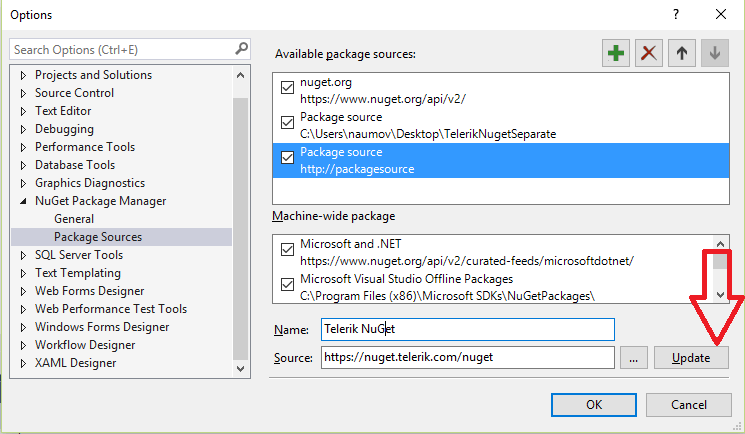
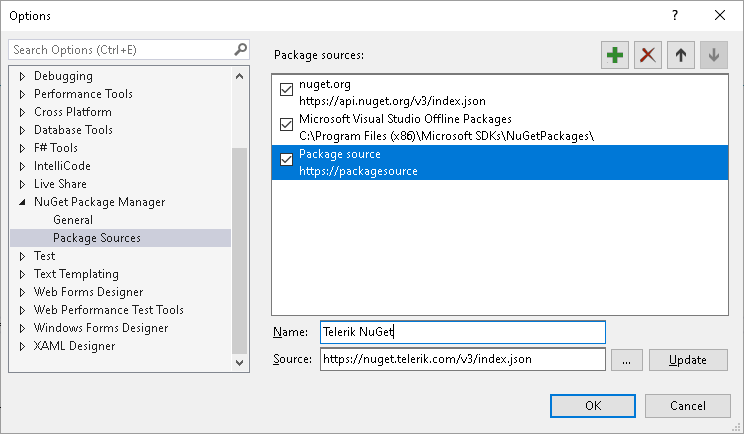
Added infor about the nuget v3 server

diff --git a/getting-started/installation/installation-installing-from-nuget-wpf.md b/getting-started/installation/installation-installing-from-nuget-wpf.md
@@ -32,9 +32,11 @@ We provide separate packages for the different assemblies from the UI for WPF su
 
 ## Using the Telerik NuGet Server
 
-> The improved Telerik NuGet v3 is now available for beta testing at [https://nuget.telerik.com/v3/index.json](https://nuget.telerik.com/v3/index.json). The new v3 API is faster, lighter, and reduces the number of requests from NuGet clients. You are welcome to try it.
+Through the Telerik NuGet Server [https://nuget.telerik.com/v3/index.json](https://nuget.telerik.com/v3/index.json) users can easily include the Telerik UI for WPF suite and update to the latest official version. 
 
-Through the Telerik NuGet Server users can easily include the Telerik UI for WPF suite and update to the latest official version. The following steps will demonstrate how this can be done in Visual Studio:
+> The old [https://nuget.telerik.com/nuget](https://nuget.telerik.com/nuget) server will be deprecated and we encourage our clients to switch to the v3 API. The new v3 API is faster, lighter, and reduces the number of requests from NuGet clients.
+
+The following steps will demonstrate how this can be done in Visual Studio:
 
 1.Navigate to the Package Manager Settings menu.
 
